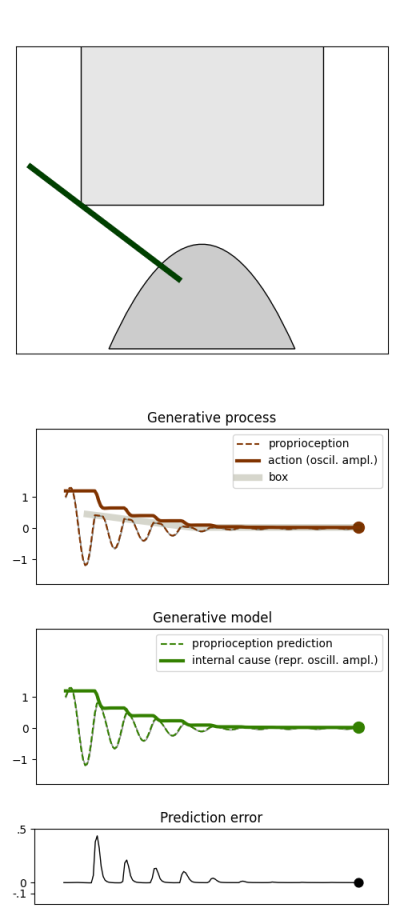
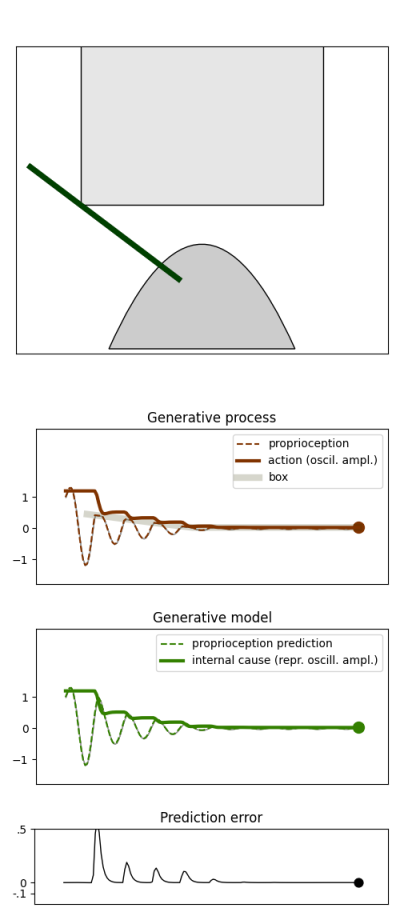
mu_x_moment

diff --git a/src/aisailib.py b/src/aisailib.py
@@ -27,13 +27,13 @@ class GP:
         mu_x: (float) hidden state (central value).
         dmu_x: (float) Change of  hidden state (central value).
         da: (float) Increment of action
-        eta: (float) Integration step
+        dt: (float) Integration step
         omega_s: (float) Standard deviation of sensory states
         omega_x: (float)  Standard deviation of inner states
         a: (float) action
     """
 
-    def __init__(self, eta=0.0005, freq=0.01, amp=0.1):
+    def __init__(self, dt=0.0005, freq=0.01, amp=0.1):
 
         self.pi_s = 9
         self.pi_x = 9
@@ -41,7 +41,7 @@ class GP:
         self.mu_s = 1
         self.omega_s = p2std(self.pi_s)
         self.omega_x = p2std(self.pi_x)
-        self.eta = eta
+        self.dt = dt
         self.freq = freq
         self.a = amp
         self.t = 0
@@ -54,10 +54,10 @@ class GP:
 
         """
 
-        self.a += self.eta*action
-        self.mu_x[0] += self.eta*(self.freq*self.mu_x[1])
-        self.mu_x[1] += self.eta*(-self.mu_x[0])
-        self.mu_x[2] += self.eta*(self.a*self.mu_x[0] - self.mu_x[2])
+        self.a += self.dt*action
+        self.mu_x[0] += self.dt*(self.freq*self.mu_x[1])
+        self.mu_x[1] += self.dt*(-self.mu_x[0])
+        self.mu_x[2] += self.dt*(self.a*self.mu_x[0] - self.mu_x[2])
         self.s = self.mu_x[2] + self.omega_s*rng.randn()
 
         return self.s
@@ -77,14 +77,14 @@ class GM:
         dmu_x: (float) Change of  hidden state (central value).
         mu_nu: (float) Internal cause (central value).
         da: (float) Increment of action
-        eta: (float) Integration step
+        dt: (float) Integration step
         omega_s: (float) Standard deviation of sensory states
         omega_x: (float)  Standard deviation of inner states
         omega_nu : (float) Standard deviation of inner causes
 
     """
 
-    def __init__(self, eta=0.0005, freq=0.001, amp=np.pi/2):
+    def __init__(self, dt=0.0005, freq=0.001, amp=np.pi/2):
 
         self.pi_s = 9
         self.pi_x = 9
@@ -95,8 +95,7 @@ class GM:
         self.mu_nu = amp
 
         self.da = 1
-        self.eta = eta
-        self.h = eta
+        self.dt = dt
         self.freq = freq
 
     def update(self, sensory_states):
@@ -123,7 +122,6 @@ class GM:
         n = self.mu_nu
         da, fr = self.da, self.freq
 
-
         # TODO: gradient descent optimizations
         self.gd_mu_x = np.array([
             -(1/omx)*(n*(n*mx[0] - mx[2] - dmx[2]) + (mx[0] + dmx[1])),
@@ -143,27 +141,26 @@ class GM:
         self.dmu_x[1] = -self.mu_x[0]
         self.dmu_x[2] = self.mu_nu*self.mu_x[0] - self.mu_x[2]
 
-        self.mu_x_moment += self.eta*self.gd_dmu_x
-
+        self.mu_x_moment += self.dt*self.gd_dmu_x
 
         # update with gradients
-        self.dmu_x += self.eta*self.mu_x_moment
-        self.mu_x += self.eta*self.dmu_x + self.h*self.gd_mu_x
-        self.mu_nu += self.eta*self.gd_a
+        self.dmu_x += self.dt*self.mu_x_moment + self.dt*self.gd_mu_x
+        self.mu_x += self.dt*self.dmu_x
+        self.mu_nu += self.dt*self.gd_a
         return self.gd_a
 
 
 if __name__ == "__main__":
 
-    gp = GP(eta=0.0005, freq=0.5, amp=1)
-    gm = GM(eta=0.0005, freq=0.5, amp=1)
+    gp = GP(dt=0.0005, freq=0.5, amp=1)
+    gm = GM(dt=0.0005, freq=0.5, amp=1)
 
     # %%
     data = []
     a = 0.0
-    stime = 100000
+    stime = 200000
     for t in range(stime):
-        if t ==   30000:
+        if t == 30000:
             gp.mu_x[2] = np.maximum(0.5, gp.mu_x[2])
         gp.update(a)
         s, gpm, gmm, gpa, gmn = gp.s, gp.mu_x[2], gm.mu_x[2], gp.a, gm.mu_nu

diff --git a/src/demo.py b/src/demo.py
@@ -27,8 +27,8 @@ for type in ["normal", "large", "still"]:
 
     stime = 180000
 
-    gp = GP(eta=0.0005, freq=0.5, amp=1.2)
-    gm = GM(eta=0.0005, freq=0.5, amp=1.2)
+    gp = GP(dt=0.0005, freq=0.5, amp=1.2)
+    gm = GM(dt=0.0005, freq=0.5, amp=1.2)
 
     sim = Sim("demo_"+type, points=normal_box
               if type == "normal" or type == "still" else large_box)
